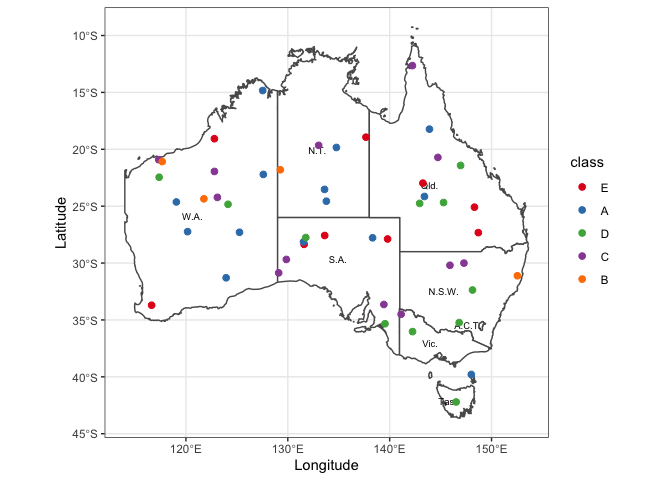
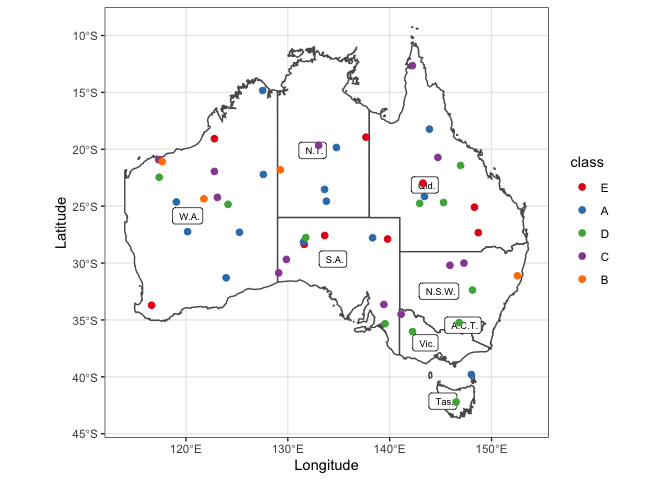
Update files

diff --git a/README.md b/README.md
@@ -1,5 +1,5 @@
 
-## Create a map of Australia and Map Data Collection Points
+## Creating a Map of Australia, Adding Data for Sample Collection Points
 
 This is a simple RMD file to illustrate how to use
 [*rnaturalearth*](https://github.com/ropenscilabs/rnaturalearth),
@@ -22,24 +22,24 @@ if (!require("pacman")) {
 
 ``` r
 library("pacman")
-p_load(tidyverse, rnaturalearth, raster, sf, lwgeom)
-if (!require("rnaturalearthdata")) {
-  p_install_gh("ropenscilabs/rnaturalearthdata")
+p_load(tidyverse, rnaturalearth, rnaturalearthdata, raster, sf, rgeos, lwgeom)
+if (!require("rnaturalearthhires")) {
+  p_install_gh("ropenscilabs/rnaturalearthhires")
 }
 ```
 
-    ## Loading required package: rnaturalearthdata
+    ## Loading required package: rnaturalearthhires
 
 ### Add a Shapefile of Australia
 
 This is our base layer, Australia, of the map from
-(Naturalearth.com)\[<https://naturalearth.com/>\]
+(Naturalearth.com)\[<https://naturalearth.com/>\].
 
 ``` r
-oz_shape <- rnaturalearth::ne_states(geounit = "australia",
-                                     returnclass = "sf")
+oz_sf <- rnaturalearth::ne_states(geounit = "australia",
+                                  returnclass = "sf")
 
-plot(oz_shape)
+plot(oz_sf)
 ```
 
     ## Warning: plotting the first 9 out of 83 attributes; use max.plot = 83 to plot
@@ -53,16 +53,15 @@ remove Jervis Bay so that the labels on the final map product are
 cleaner.
 
 ``` r
-oz_shape <- st_intersection(oz_shape,
-                st_set_crs(
-                  st_as_sf(
-                    as(
-                      raster::extent(114,
-                                     155,
-                                     -45,
-                                     -9),
-                      "SpatialPolygons")),
-                  st_crs(oz_shape)))
+oz_sf <- st_intersection(oz_sf,
+                         st_set_crs(st_as_sf(as(
+                           raster::extent(114,
+                                          155,
+                                          -45,
+                                          -9),
+                           "SpatialPolygons"
+                         )),
+                         st_crs(oz_sf)))
 ```
 
     ## although coordinates are longitude/latitude, st_intersection assumes that they are planar
@@ -71,21 +70,21 @@ oz_shape <- st_intersection(oz_shape,
     ## geometries
 
 ``` r
-oz_shape <- oz_shape[oz_shape$abbrev != "J.B.T.", ]
+oz_sf <- oz_sf[oz_sf$abbrev != "J.B.T.",]
 
-plot(oz_shape)
+plot(oz_sf)
 ```
 
     ## Warning: plotting the first 9 out of 83 attributes; use max.plot = 83 to plot
     ## all
 
-![](README_files/figure-gfm/crop_shape-1.png)<!-- -->
+![](README_files/figure-gfm/crop_sf-1.png)<!-- -->
 
 ## Import Collection Point Data
 
 If you have your own data in a .csv file, import it using `read_csv()`.
-These are just random points that I generated to illustrate how to add
-points to a map.
+These are just random points that I generated and saved as a .csv file
+for this work to illustrate how to add points to a map.
 
 ``` r
 point_data <- read_csv("sample_points.csv",
@@ -96,17 +95,17 @@ point_data <- read_csv("sample_points.csv",
                        ))
 ```
 
-## Plot using ggplot2
+## Plot Using ggplot2
 
 Plot the final combination of data with the Naturalearthdata Australia
 data and state outlines with the sampling location points overplayed and
 colour-coded by the state where they were sampled.
 
 ``` r
-oz <- ggplot(oz_shape) +
+oz <- ggplot(oz_sf) +
   geom_sf(fill = "white") +
-  geom_text(
-    data = oz_shape,
+  geom_label(
+    data = oz_sf,
     aes(x = longitude,
         y = latitude,
         label = abbrev),
@@ -131,7 +130,7 @@ oz
 
 ![](README_files/figure-gfm/plot-1.png)<!-- -->
 
-## Save the graph
+## Save the Graph
 
 Export at 500 DPI for publication with a width 190mm for a 2-column
 width figure.
@@ -143,205 +142,53 @@ ggsave("Australia_Map.tiff",
        dpi = 500)
 ```
 
-# Appendix
+## Meta
 
-    ## ─ Session info ───────────────────────────────────────────────────────────────
-    ##  setting  value                       
-    ##  version  R version 4.0.2 (2020-06-22)
-    ##  os       macOS Catalina 10.15.5      
-    ##  system   x86_64, darwin17.0          
-    ##  ui       X11                         
-    ##  language (EN)                        
-    ##  collate  en_AU.UTF-8                 
-    ##  ctype    en_AU.UTF-8                 
-    ##  tz       Australia/Brisbane          
-    ##  date     2020-06-29                  
+### Code of Conduct
+
+Please note that the R\_map\_with\_points\_Oz project is released with a
+[Contributor Code of
+Conduct](https://contributor-covenant.org/version/2/0/CODE_OF_CONDUCT.html).
+By contributing to this project, you agree to abide by its terms.
+
+### R Session Information
+
+    ## R version 4.0.2 (2020-06-22)
+    ## Platform: x86_64-apple-darwin17.0 (64-bit)
+    ## Running under: macOS Catalina 10.15.5
     ## 
-    ## ─ Packages ───────────────────────────────────────────────────────────────────
-    ##  package            * version    date       lib
-    ##  assertthat           0.2.1      2019-03-21 [1]
-    ##  backports            1.1.8      2020-06-17 [1]
-    ##  blob                 1.2.1      2020-01-20 [1]
-    ##  broom                0.5.6      2020-04-20 [1]
-    ##  callr                3.4.3      2020-03-28 [1]
-    ##  cellranger           1.1.0      2016-07-27 [1]
-    ##  class                7.3-17     2020-04-26 [2]
-    ##  classInt             0.4-3      2020-04-07 [1]
-    ##  cli                  2.0.2      2020-02-28 [1]
-    ##  clisymbols           1.2.0      2017-05-21 [1]
-    ##  codetools            0.2-16     2018-12-24 [2]
-    ##  colorspace           1.4-1      2019-03-18 [1]
-    ##  crayon               1.3.4.9000 2020-06-12 [1]
-    ##  DBI                  1.1.0      2019-12-15 [1]
-    ##  dbplyr               1.4.4      2020-05-27 [1]
-    ##  desc                 1.2.0      2018-05-01 [1]
-    ##  devtools             2.3.0      2020-04-10 [1]
-    ##  digest               0.6.25     2020-02-23 [1]
-    ##  dplyr              * 1.0.0      2020-05-29 [1]
-    ##  e1071                1.7-3      2019-11-26 [1]
-    ##  ellipsis             0.3.1      2020-05-15 [1]
-    ##  evaluate             0.14       2019-05-28 [1]
-    ##  fansi                0.4.1      2020-01-08 [1]
-    ##  farver               2.0.3      2020-01-16 [1]
-    ##  forcats            * 0.5.0      2020-03-01 [1]
-    ##  fs                   1.4.1      2020-04-04 [1]
-    ##  generics             0.0.2      2018-11-29 [1]
-    ##  ggplot2            * 3.3.2      2020-06-19 [1]
-    ##  glue                 1.4.1      2020-05-13 [1]
-    ##  gtable               0.3.0      2019-03-25 [1]
-    ##  haven                2.3.1      2020-06-01 [1]
-    ##  hms                  0.5.3      2020-01-08 [1]
-    ##  htmltools            0.5.0      2020-06-16 [1]
-    ##  httr                 1.4.1      2019-08-05 [1]
-    ##  jsonlite             1.7.0      2020-06-25 [1]
-    ##  KernSmooth           2.23-17    2020-04-26 [2]
-    ##  knitr                1.29       2020-06-23 [1]
-    ##  lattice              0.20-41    2020-04-02 [2]
-    ##  lifecycle            0.2.0      2020-03-06 [1]
-    ##  lubridate            1.7.9      2020-06-08 [1]
-    ##  lwgeom             * 0.2-5      2020-06-12 [1]
-    ##  magrittr             1.5        2014-11-22 [1]
-    ##  memoise              1.1.0      2017-04-21 [1]
-    ##  modelr               0.1.8      2020-05-19 [1]
-    ##  munsell              0.5.0      2018-06-12 [1]
-    ##  nlme                 3.1-148    2020-05-24 [2]
-    ##  pacman             * 0.5.1      2019-03-11 [1]
-    ##  pillar               1.4.4      2020-05-05 [1]
-    ##  pkgbuild             1.0.8      2020-05-07 [1]
-    ##  pkgconfig            2.0.3      2019-09-22 [1]
-    ##  pkgload              1.1.0      2020-05-29 [1]
-    ##  prettyunits          1.1.1      2020-01-24 [1]
-    ##  processx             3.4.2      2020-02-09 [1]
-    ##  prompt               1.0.0      2020-04-25 [1]
-    ##  ps                   1.3.3      2020-05-08 [1]
-    ##  purrr              * 0.3.4      2020-04-17 [1]
-    ##  R6                   2.4.1      2019-11-12 [1]
-    ##  raster             * 3.3-7      2020-06-27 [1]
-    ##  RColorBrewer         1.1-2      2014-12-07 [1]
-    ##  Rcpp                 1.0.4.6    2020-04-09 [1]
-    ##  readr              * 1.3.1      2018-12-21 [1]
-    ##  readxl               1.3.1      2019-03-13 [1]
-    ##  remotes              2.1.1      2020-02-15 [1]
-    ##  reprex               0.3.0      2019-05-16 [1]
-    ##  rgeos                0.5-3      2020-05-08 [1]
-    ##  rlang                0.4.6      2020-05-02 [1]
-    ##  rmarkdown            2.3        2020-06-18 [1]
-    ##  rnaturalearth      * 0.1.0      2017-03-21 [1]
-    ##  rnaturalearthdata  * 0.1.0      2017-02-21 [1]
-    ##  rnaturalearthhires   0.2.0      2020-06-29 [1]
-    ##  rprojroot            1.3-2      2018-01-03 [1]
-    ##  rstudioapi           0.11       2020-02-07 [1]
-    ##  rvest                0.3.5      2019-11-08 [1]
-    ##  scales               1.1.1      2020-05-11 [1]
-    ##  sessioninfo          1.1.1      2018-11-05 [1]
-    ##  sf                 * 0.9-4      2020-06-13 [1]
-    ##  sp                 * 1.4-2      2020-05-20 [1]
-    ##  stringi              1.4.6      2020-02-17 [1]
-    ##  stringr            * 1.4.0      2019-02-10 [1]
-    ##  testthat             2.3.2      2020-03-02 [1]
-    ##  tibble             * 3.0.1      2020-04-20 [1]
-    ##  tidyr              * 1.1.0      2020-05-20 [1]
-    ##  tidyselect           1.1.0      2020-05-11 [1]
-    ##  tidyverse          * 1.3.0      2019-11-21 [1]
-    ##  units                0.6-7      2020-06-13 [1]
-    ##  usethis              1.6.1      2020-04-29 [1]
-    ##  vctrs                0.3.1      2020-06-05 [1]
-    ##  withr                2.2.0      2020-04-20 [1]
-    ##  xfun                 0.15       2020-06-21 [1]
-    ##  xml2                 1.3.2      2020-04-23 [1]
-    ##  yaml                 2.2.1      2020-02-01 [1]
-    ##  source                                      
-    ##  CRAN (R 4.0.0)                              
-    ##  CRAN (R 4.0.1)                              
-    ##  CRAN (R 4.0.0)                              
-    ##  CRAN (R 4.0.0)                              
-    ##  CRAN (R 4.0.0)                              
-    ##  CRAN (R 4.0.0)                              
-    ##  CRAN (R 4.0.2)                              
-    ##  CRAN (R 4.0.0)                              
-    ##  CRAN (R 4.0.0)                              
-    ##  CRAN (R 4.0.0)                              
-    ##  CRAN (R 4.0.2)                              
-    ##  CRAN (R 4.0.0)                              
-    ##  Github (r-lib/crayon@dcf6d44)               
-    ##  CRAN (R 4.0.0)                              
-    ##  CRAN (R 4.0.0)                              
-    ##  CRAN (R 4.0.0)                              
-    ##  CRAN (R 4.0.0)                              
-    ##  CRAN (R 4.0.0)                              
-    ##  CRAN (R 4.0.0)                              
-    ##  CRAN (R 4.0.0)                              
-    ##  CRAN (R 4.0.0)                              
-    ##  CRAN (R 4.0.0)                              
-    ##  CRAN (R 4.0.0)                              
-    ##  CRAN (R 4.0.0)                              
-    ##  CRAN (R 4.0.0)                              
-    ##  CRAN (R 4.0.0)                              
-    ##  CRAN (R 4.0.0)                              
-    ##  CRAN (R 4.0.1)                              
-    ##  CRAN (R 4.0.0)                              
-    ##  CRAN (R 4.0.0)                              
-    ##  CRAN (R 4.0.0)                              
-    ##  CRAN (R 4.0.0)                              
-    ##  CRAN (R 4.0.1)                              
-    ##  CRAN (R 4.0.0)                              
-    ##  CRAN (R 4.0.2)                              
-    ##  CRAN (R 4.0.2)                              
-    ##  CRAN (R 4.0.1)                              
-    ##  CRAN (R 4.0.2)                              
-    ##  CRAN (R 4.0.0)                              
-    ##  CRAN (R 4.0.0)                              
-    ##  CRAN (R 4.0.0)                              
-    ##  CRAN (R 4.0.0)                              
-    ##  CRAN (R 4.0.0)                              
-    ##  CRAN (R 4.0.0)                              
-    ##  CRAN (R 4.0.0)                              
-    ##  CRAN (R 4.0.2)                              
-    ##  CRAN (R 4.0.0)                              
-    ##  CRAN (R 4.0.0)                              
-    ##  CRAN (R 4.0.0)                              
-    ##  CRAN (R 4.0.0)                              
-    ##  CRAN (R 4.0.0)                              
-    ##  CRAN (R 4.0.0)                              
-    ##  CRAN (R 4.0.0)                              
-    ##  Github (gaborcsardi/prompt@b332c42)         
-    ##  CRAN (R 4.0.0)                              
-    ##  CRAN (R 4.0.0)                              
-    ##  CRAN (R 4.0.0)                              
-    ##  CRAN (R 4.0.2)                              
-    ##  CRAN (R 4.0.0)                              
-    ##  CRAN (R 4.0.2)                              
-    ##  CRAN (R 4.0.0)                              
-    ##  CRAN (R 4.0.0)                              
-    ##  CRAN (R 4.0.0)                              
-    ##  CRAN (R 4.0.0)                              
-    ##  CRAN (R 4.0.0)                              
-    ##  CRAN (R 4.0.0)                              
-    ##  CRAN (R 4.0.1)                              
-    ##  CRAN (R 4.0.0)                              
-    ##  CRAN (R 4.0.0)                              
-    ##  Github (ropensci/rnaturalearthhires@2ed7a93)
-    ##  CRAN (R 4.0.0)                              
-    ##  CRAN (R 4.0.0)                              
-    ##  CRAN (R 4.0.0)                              
-    ##  CRAN (R 4.0.0)                              
-    ##  CRAN (R 4.0.0)                              
-    ##  CRAN (R 4.0.0)                              
-    ##  CRAN (R 4.0.0)                              
-    ##  CRAN (R 4.0.0)                              
-    ##  CRAN (R 4.0.0)                              
-    ##  CRAN (R 4.0.0)                              
-    ##  CRAN (R 4.0.0)                              
-    ##  CRAN (R 4.0.0)                              
-    ##  CRAN (R 4.0.0)                              
-    ##  CRAN (R 4.0.0)                              
-    ##  CRAN (R 4.0.0)                              
-    ##  CRAN (R 4.0.0)                              
-    ##  CRAN (R 4.0.0)                              
-    ##  CRAN (R 4.0.0)                              
-    ##  CRAN (R 4.0.1)                              
-    ##  CRAN (R 4.0.0)                              
-    ##  CRAN (R 4.0.0)                              
+    ## Matrix products: default
+    ## BLAS:   /Library/Frameworks/R.framework/Versions/4.0/Resources/lib/libRblas.dylib
+    ## LAPACK: /Library/Frameworks/R.framework/Versions/4.0/Resources/lib/libRlapack.dylib
     ## 
-    ## [1] /Users/adamsparks/.R/library
-    ## [2] /Library/Frameworks/R.framework/Versions/4.0/Resources/library
+    ## locale:
+    ## [1] en_AU.UTF-8/en_AU.UTF-8/en_AU.UTF-8/C/en_AU.UTF-8/en_AU.UTF-8
+    ## 
+    ## attached base packages:
+    ## [1] stats     graphics  grDevices utils     datasets  methods   base     
+    ## 
+    ## other attached packages:
+    ##  [1] rnaturalearthhires_0.2.0 lwgeom_0.2-5             rgeos_0.5-3             
+    ##  [4] sf_0.9-4                 raster_3.3-7             sp_1.4-2                
+    ##  [7] rnaturalearthdata_0.1.0  rnaturalearth_0.1.0      forcats_0.5.0           
+    ## [10] stringr_1.4.0            dplyr_1.0.0              purrr_0.3.4             
+    ## [13] readr_1.3.1              tidyr_1.1.0              tibble_3.0.1            
+    ## [16] ggplot2_3.3.2            tidyverse_1.3.0          pacman_0.5.1            
+    ## 
+    ## loaded via a namespace (and not attached):
+    ##  [1] Rcpp_1.0.4.6       lubridate_1.7.9    lattice_0.20-41    class_7.3-17      
+    ##  [5] clisymbols_1.2.0   assertthat_0.2.1   digest_0.6.25      prompt_1.0.0      
+    ##  [9] R6_2.4.1           cellranger_1.1.0   backports_1.1.8    reprex_0.3.0      
+    ## [13] evaluate_0.14      e1071_1.7-3        httr_1.4.1         pillar_1.4.4      
+    ## [17] rlang_0.4.6        readxl_1.3.1       rstudioapi_0.11    blob_1.2.1        
+    ## [21] rmarkdown_2.3      munsell_0.5.0      broom_0.5.6        compiler_4.0.2    
+    ## [25] modelr_0.1.8       xfun_0.15          pkgconfig_2.0.3    htmltools_0.5.0   
+    ## [29] tidyselect_1.1.0   codetools_0.2-16   fansi_0.4.1        crayon_1.3.4.9000 
+    ## [33] dbplyr_1.4.4       withr_2.2.0        grid_4.0.2         nlme_3.1-148      
+    ## [37] jsonlite_1.7.0     gtable_0.3.0       lifecycle_0.2.0    DBI_1.1.0         
+    ## [41] magrittr_1.5       units_0.6-7        scales_1.1.1       KernSmooth_2.23-17
+    ## [45] cli_2.0.2          stringi_1.4.6      farver_2.0.3       fs_1.4.1          
+    ## [49] xml2_1.3.2         ellipsis_0.3.1     generics_0.0.2     vctrs_0.3.1       
+    ## [53] RColorBrewer_1.1-2 tools_4.0.2        glue_1.4.1         hms_0.5.3         
+    ## [57] parallel_4.0.2     yaml_2.2.1         colorspace_1.4-1   classInt_0.4-3    
+    ## [61] rvest_0.3.5        knitr_1.29         haven_2.3.1
